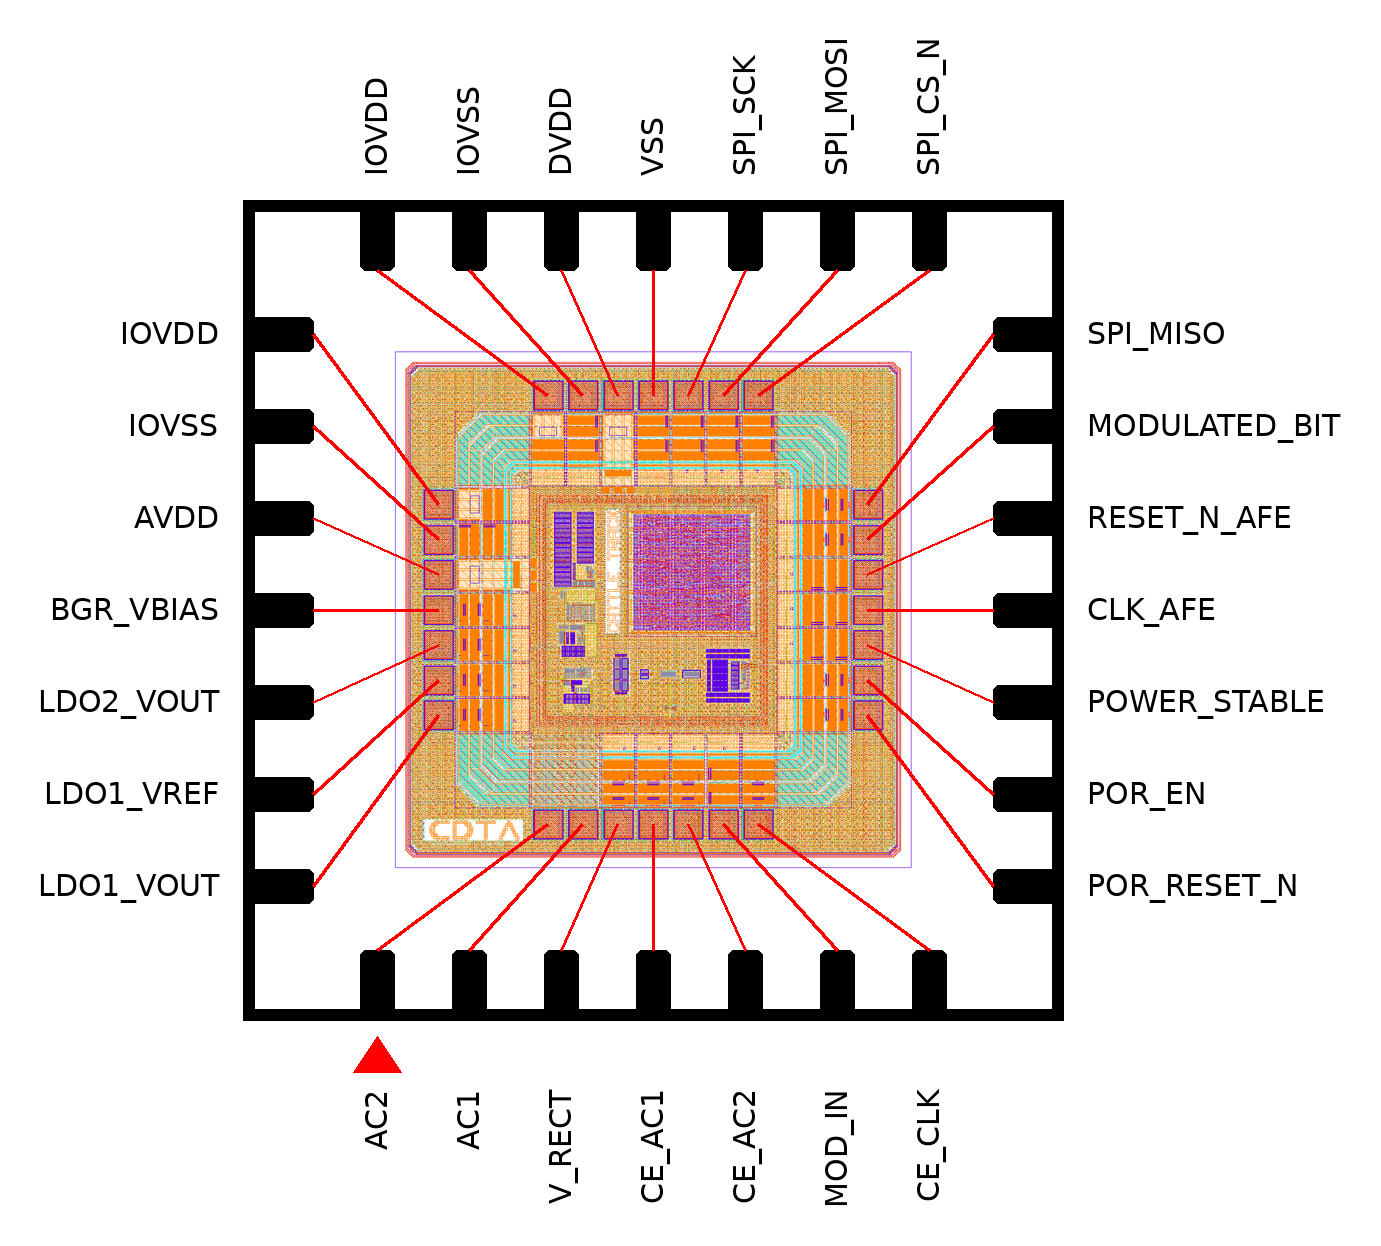
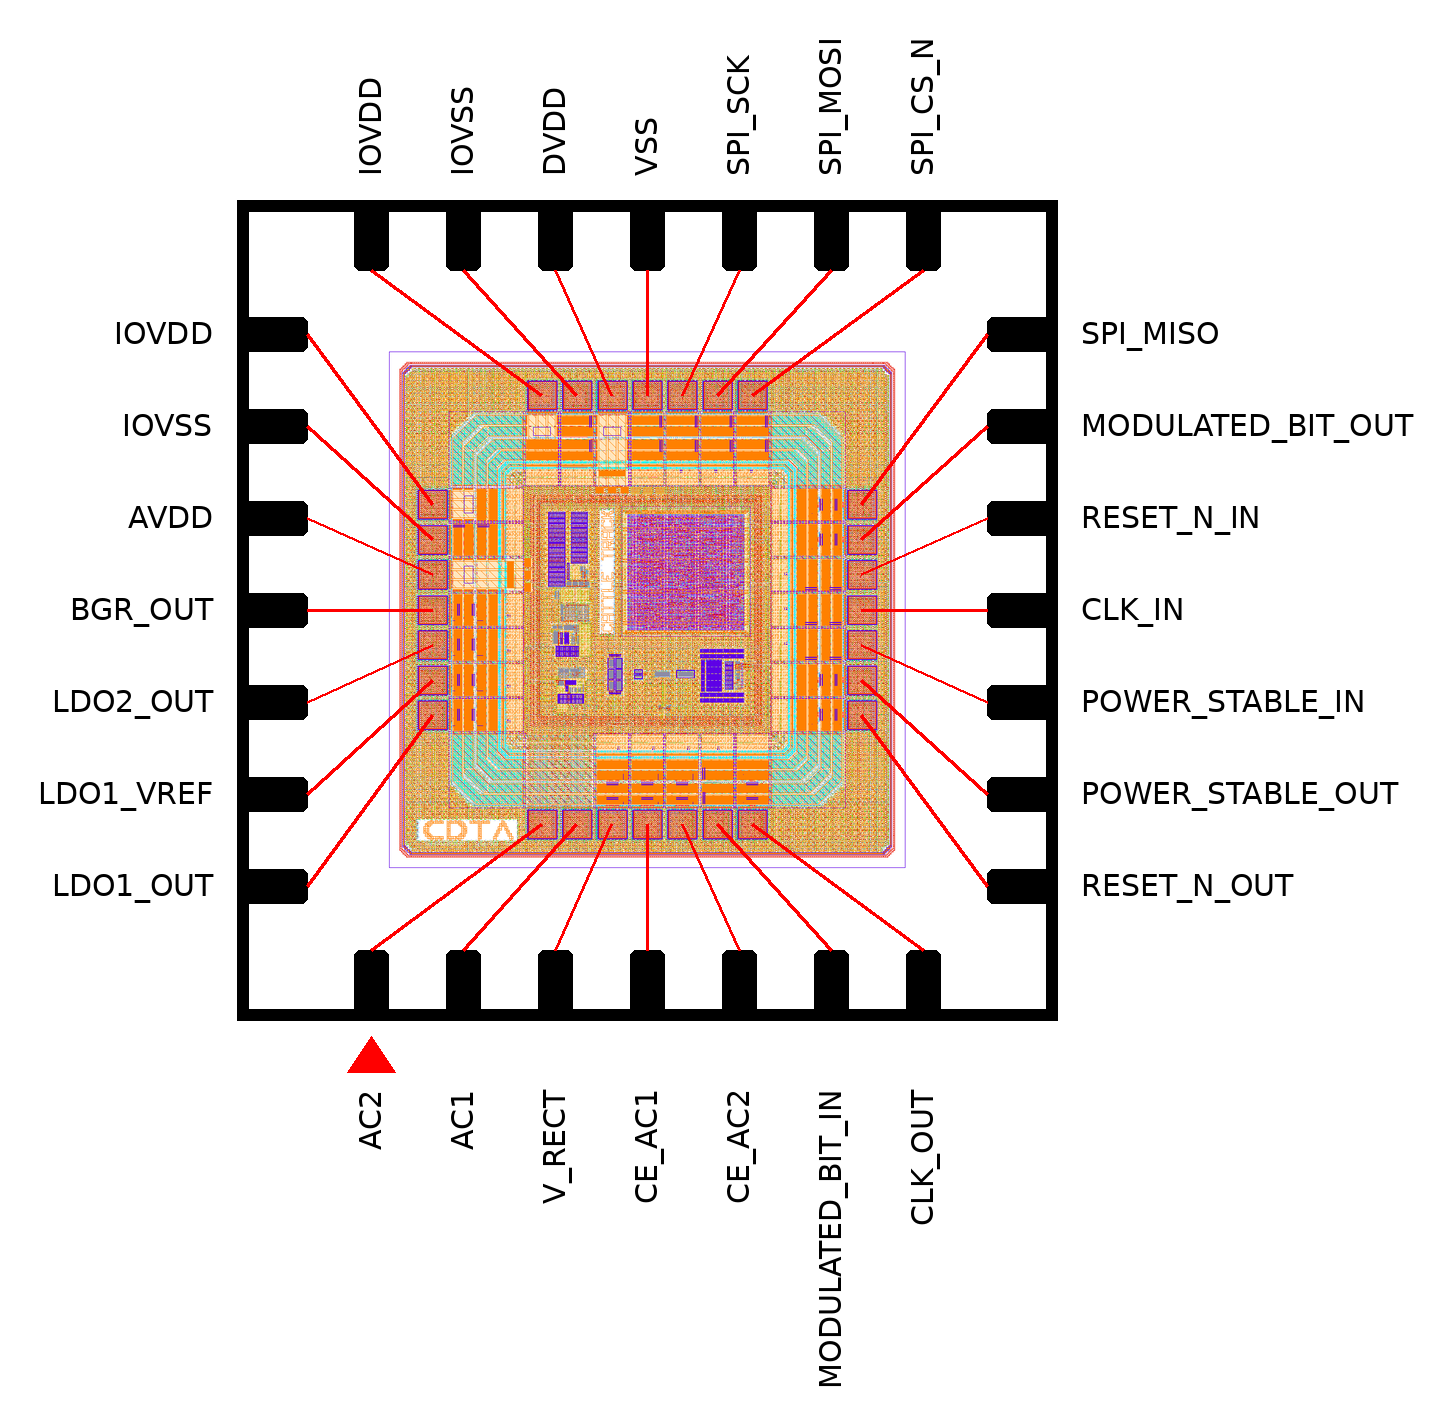
fixed a naming issue in the pinout figure

diff --git a/README.md b/README.md
@@ -22,36 +22,36 @@ Pin 1 is the bottom-left pin (red marker); pins are numbered counter-clockwise f
 it. Pad IDs give the die side, counted left to right on N/S and bottom to top on E/W,
 die seen from above as in the GDS. The map was traced from the release GDS.
 
-| Pin | Pad | Name            | Type        | Function                                               |
-| --: | --- | --------------- | ----------- | ------------------------------------------------------ |
-|   1 | S1  | `AC2`           | antenna     | coil terminal 2, bare pad (no ESD)                     |
-|   2 | S2  | `AC1`           | antenna     | coil terminal 1, bare pad (no ESD)                     |
-|   3 | S3  | `V_RECT`        | analog out  | rectifier output                                       |
-|   4 | S4  | `CE_AC1`        | analog in   | clock extractor input 1                                |
-|   5 | S5  | `CE_AC2`        | analog in   | clock extractor input 2                                |
-|   6 | S6  | `MOD_IN`        | digital in  | load modulator control                                 |
-|   7 | S7  | `CE_CLK`        | digital out | clock extractor output (recovered carrier)             |
-|   8 | E1  | `POR_RESET_N`   | digital out | power-on reset, active low                             |
-|   9 | E2  | `POR_EN`        | digital out | power-on-reset enable                                  |
-|  10 | E3  | `POWER_STABLE`  | digital in  | core start-up enable, also enables the clock extractor |
-|  11 | E4  | `CLK_AFE`       | digital in  | core functional clock (134.2 kHz), also clocks the POR |
-|  12 | E5  | `RESET_N_AFE`   | digital in  | core reset, active low                                 |
-|  13 | E6  | `MODULATED_BIT` | digital out | bi-phase encoded telegram                              |
-|  14 | E7  | `SPI_MISO`      | digital out | DFT SPI data out (tri-state)                           |
-|  15 | N7  | `SPI_CS_N`      | digital in  | DFT SPI chip select, active low                        |
-|  16 | N6  | `SPI_MOSI`      | digital in  | DFT SPI data in                                        |
-|  17 | N5  | `SPI_SCK`       | digital in  | DFT SPI clock                                          |
-|  18 | N4  | `VSS`           | ground      | core ground                                            |
-|  19 | N3  | `DVDD`          | supply      | digital core supply, 1.2 V                             |
-|  20 | N2  | `IOVSS`         | ground      | IO ring ground                                         |
-|  21 | N1  | `IOVDD`         | supply      | IO ring supply                                         |
-|  22 | W7  | `IOVDD`         | supply      | IO ring supply                                         |
-|  23 | W6  | `IOVSS`         | ground      | IO ring ground                                         |
-|  24 | W5  | `AVDD`          | supply      | analog supply rail                                     |
-|  25 | W4  | `BGR_VBIAS`     | analog out  | bandgap bias output, also the LDO_2 reference          |
-|  26 | W3  | `LDO2_VOUT`     | analog out  | LDO_2 output                                           |
-|  27 | W2  | `LDO1_VREF`     | analog in   | LDO_1 reference input                                  |
-|  28 | W1  | `LDO1_VOUT`     | analog out  | LDO_1 output                                           |
+| Pin | Pad | Name                | Type        | Function                                               |
+| --: | --- | ------------------- | ----------- | ------------------------------------------------------ |
+|   1 | S1  | `AC2`               | antenna     | coil terminal 2, bare pad (no ESD)                     |
+|   2 | S2  | `AC1`               | antenna     | coil terminal 1, bare pad (no ESD)                     |
+|   3 | S3  | `V_RECT`            | analog out  | rectifier output                                       |
+|   4 | S4  | `CE_AC1`            | analog in   | clock extractor input 1                                |
+|   5 | S5  | `CE_AC2`            | analog in   | clock extractor input 2                                |
+|   6 | S6  | `MODULATED_BIT_IN`  | digital in  | load modulator control                                 |
+|   7 | S7  | `CLK_OUT`           | digital out | clock extractor output (recovered carrier)             |
+|   8 | E1  | `RESET_N_OUT`       | digital out | power-on reset, active low                             |
+|   9 | E2  | `POWER_STABLE_OUT`  | digital out | power-on-reset enable                                  |
+|  10 | E3  | `POWER_STABLE_IN`   | digital in  | core start-up enable, also enables the clock extractor |
+|  11 | E4  | `CLK_IN`            | digital in  | core functional clock (134.2 kHz), also clocks the POR |
+|  12 | E5  | `RESET_N_IN`        | digital in  | core reset, active low                                 |
+|  13 | E6  | `MODULATED_BIT_OUT` | digital out | bi-phase encoded telegram                              |
+|  14 | E7  | `SPI_MISO`          | digital out | DFT SPI data out (tri-state)                           |
+|  15 | N7  | `SPI_CS_N`          | digital in  | DFT SPI chip select, active low                        |
+|  16 | N6  | `SPI_MOSI`          | digital in  | DFT SPI data in                                        |
+|  17 | N5  | `SPI_SCK`           | digital in  | DFT SPI clock                                          |
+|  18 | N4  | `VSS`               | ground      | core ground                                            |
+|  19 | N3  | `DVDD`              | supply      | digital core supply, 1.2 V                             |
+|  20 | N2  | `IOVSS`             | ground      | IO ring ground                                         |
+|  21 | N1  | `IOVDD`             | supply      | IO ring supply                                         |
+|  22 | W7  | `IOVDD`             | supply      | IO ring supply                                         |
+|  23 | W6  | `IOVSS`             | ground      | IO ring ground                                         |
+|  24 | W5  | `AVDD`              | supply      | analog supply rail                                     |
+|  25 | W4  | `BGR_OUT`           | analog out  | bandgap bias output, also the LDO_2 reference          |
+|  26 | W3  | `LDO2_OUT`          | analog out  | LDO_2 output                                           |
+|  27 | W2  | `LDO1_VREF`         | analog in   | LDO_1 reference input                                  |
+|  28 | W1  | `LDO1_OUT`          | analog out  | LDO_1 output                                           |
 
 ## Overview
 
@@ -71,15 +71,15 @@ be tested on its own, and an SPI test port reaches the digital core with no RF f
 
 LibreLane on IHP SG13G2, corners `nom_typ_1p20V_25C`, `nom_slow_1p08V_125C` and `nom_fast_1p32V_m40C`.
 
-| Metric                               | Value                                                    |
-| ------------------------------------ | -------------------------------------------------------- |
-| Flip-flops                           | 244                                                      |
-| Standard cells                       | 1421 (+5206 fill)                                        |
-| Utilisation                          | 31.3 %                                                   |
-| Clocks                               | `CLK_AFE` 134.2 kHz (functional), `SPI_SCK` 4 MHz (test) |
-| Worst setup slack                    | +61.65 ns                                                |
-| Worst hold slack                     | +0.12 ns                                                 |
-| DRC (Magic, KLayout) / LVS / antenna | 0 / 0 / 0                                                |
+| Metric                               | Value                                                   |
+| ------------------------------------ | ------------------------------------------------------- |
+| Flip-flops                           | 244                                                     |
+| Standard cells                       | 1421 (+5206 fill)                                       |
+| Utilisation                          | 31.3 %                                                  |
+| Clocks                               | `CLK_IN` 134.2 kHz (functional), `SPI_SCK` 4 MHz (test) |
+| Worst setup slack                    | +61.65 ns                                               |
+| Worst hold slack                     | +0.12 ns                                                |
+| DRC (Magic, KLayout) / LVS / antenna | 0 / 0 / 0                                               |
 
 ---
 
@@ -90,16 +90,16 @@ LibreLane on IHP SG13G2, corners `nom_typ_1p20V_25C`, `nom_slow_1p08V_125C` and 
 The AFE and the digital core are not wired together on the die. Strap these pads on
 the test board to run the tag from an RF field:
 
-| From               | To                | Signal                                |
-| ------------------ | ----------------- | ------------------------------------- |
-| 7 `CE_CLK`         | 11 `CLK_AFE`      | recovered carrier clock               |
-| 8 `POR_RESET_N`    | 12 `RESET_N_AFE`  | core reset                            |
-| 9 `POR_EN`         | 10 `POWER_STABLE` | power good                            |
-| 13 `MODULATED_BIT` | 6 `MOD_IN`        | encoded telegram to the modulator     |
-| 2 `AC1`            | 4 `CE_AC1`        | carrier to the clock extractor        |
-| 1 `AC2`            | 5 `CE_AC2`        | carrier to the clock extractor        |
-| 3 `V_RECT`         | 24 `AVDD`         | rectified supply to the analog blocks |
-| 28 `LDO1_VOUT`     | 19 `DVDD`         | regulated supply to the digital core  |
+| From                   | To                   | Signal                                |
+| ---------------------- | -------------------- | ------------------------------------- |
+| 7 `CLK_OUT`            | 11 `CLK_IN`          | recovered carrier clock               |
+| 8 `RESET_N_OUT`        | 12 `RESET_N_IN`      | core reset                            |
+| 9 `POWER_STABLE_OUT`   | 10 `POWER_STABLE_IN` | power good                            |
+| 13 `MODULATED_BIT_OUT` | 6 `MODULATED_BIT_IN` | encoded telegram to the modulator     |
+| 2 `AC1`                | 4 `CE_AC1`           | carrier to the clock extractor        |
+| 1 `AC2`                | 5 `CE_AC2`           | carrier to the clock extractor        |
+| 3 `V_RECT`             | 24 `AVDD`            | rectified supply to the analog blocks |
+| 28 `LDO1_OUT`          | 19 `DVDD`            | regulated supply to the digital core  |
 
 Leave the straps open to drive the core from a bench instrument or an MCU instead.
 
@@ -107,7 +107,6 @@ Leave the straps open to drive the core from a bench instrument or an MCU instea
 
 - **`SPI_MISO` needs a pull-down.** The data and enable pins of its tri-state pad are
   swapped. With a pull-down the pad still reads correctly while the core drives MISO.
-- **The bandgap reference output is not routed.** Drive `LDO1_VREF` from the bench.
 - **`AC1` and `AC2` are bare bond pads** with no ESD protection, each about 200 Ω in
   series before the limiter.
 
